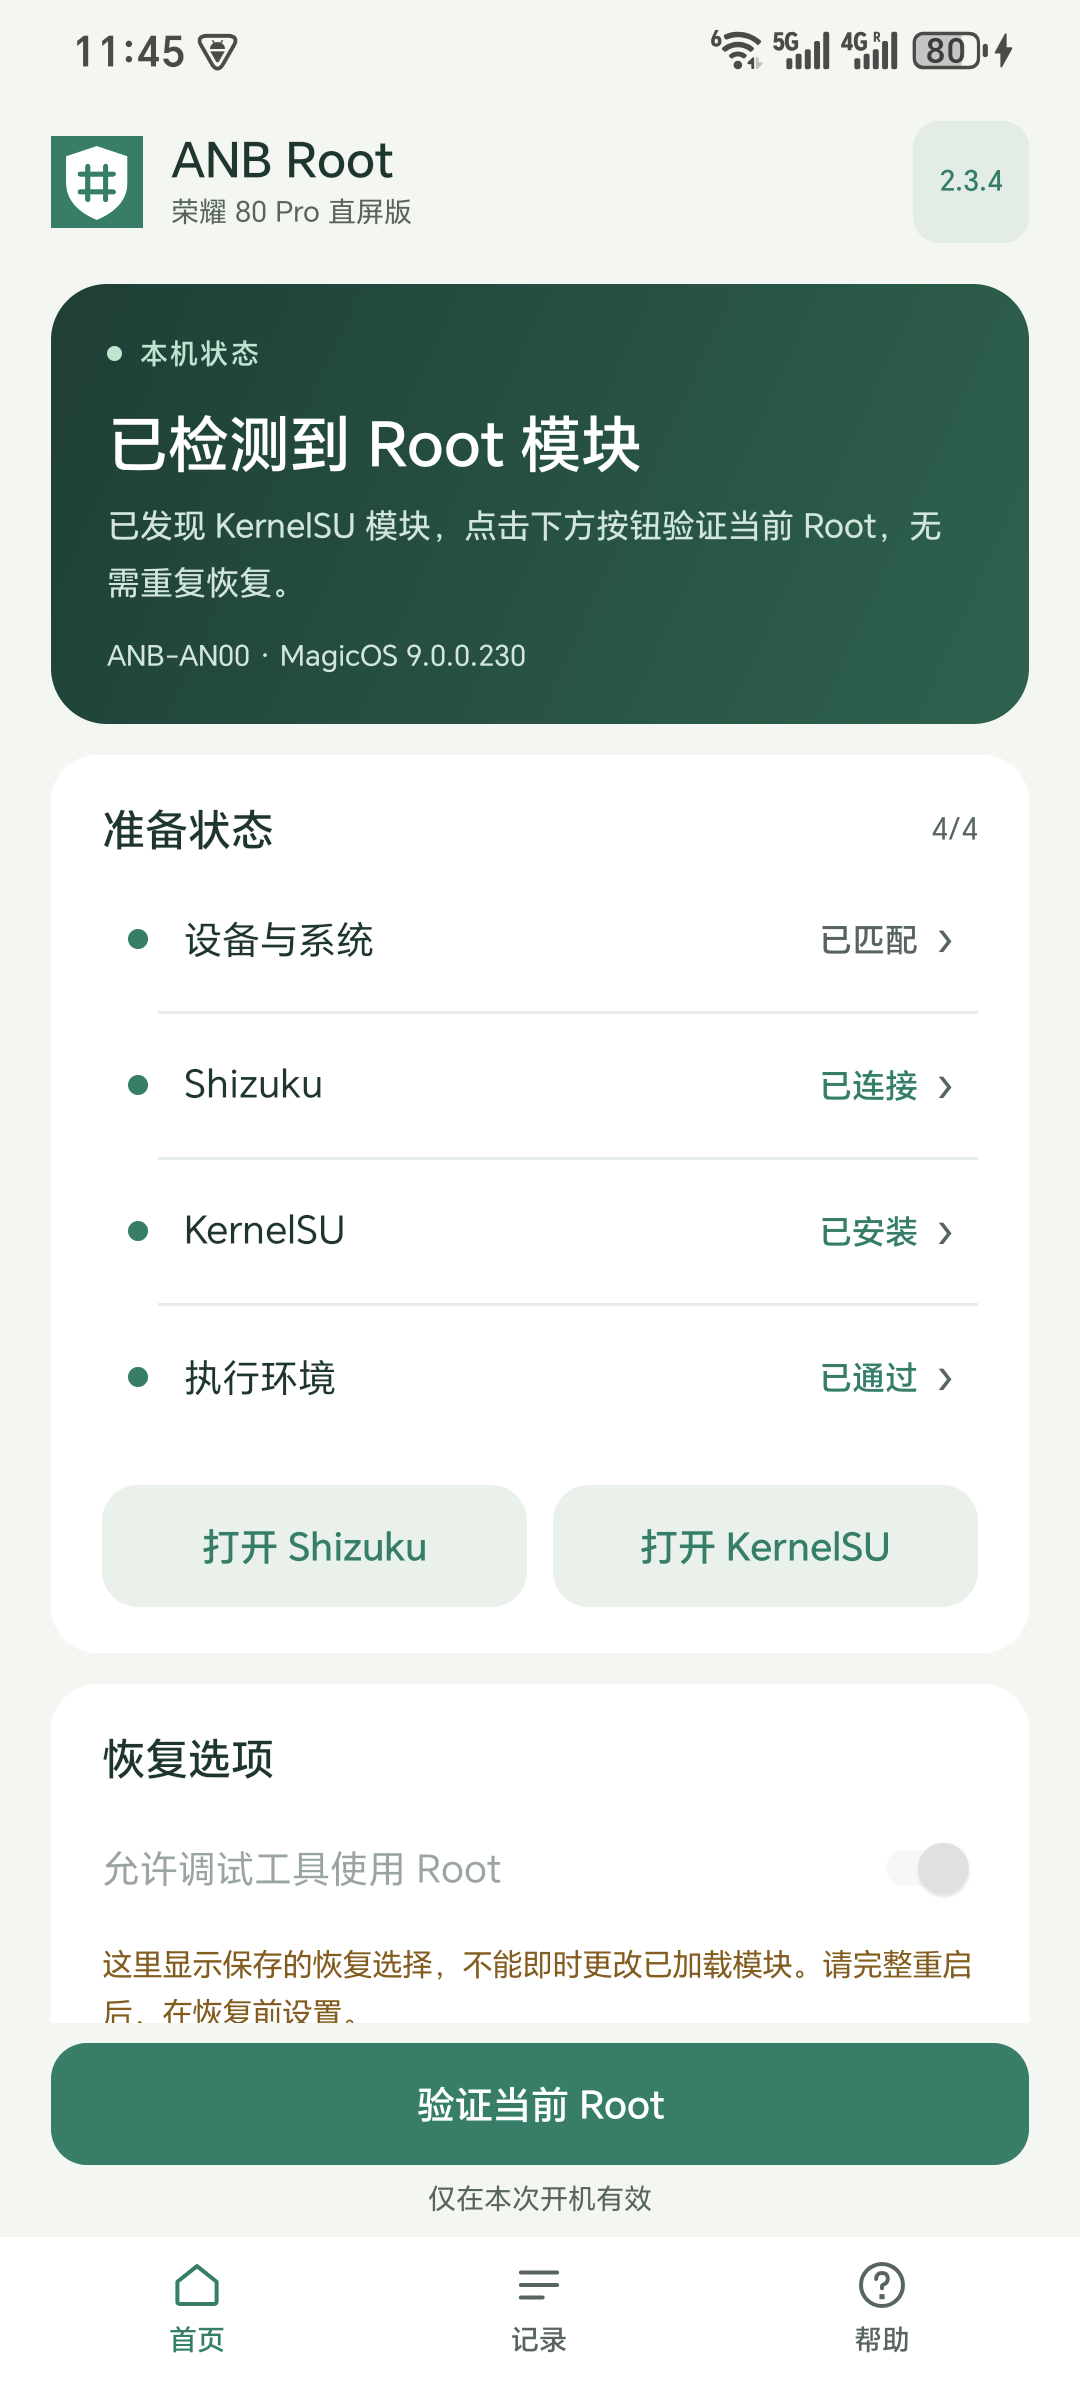
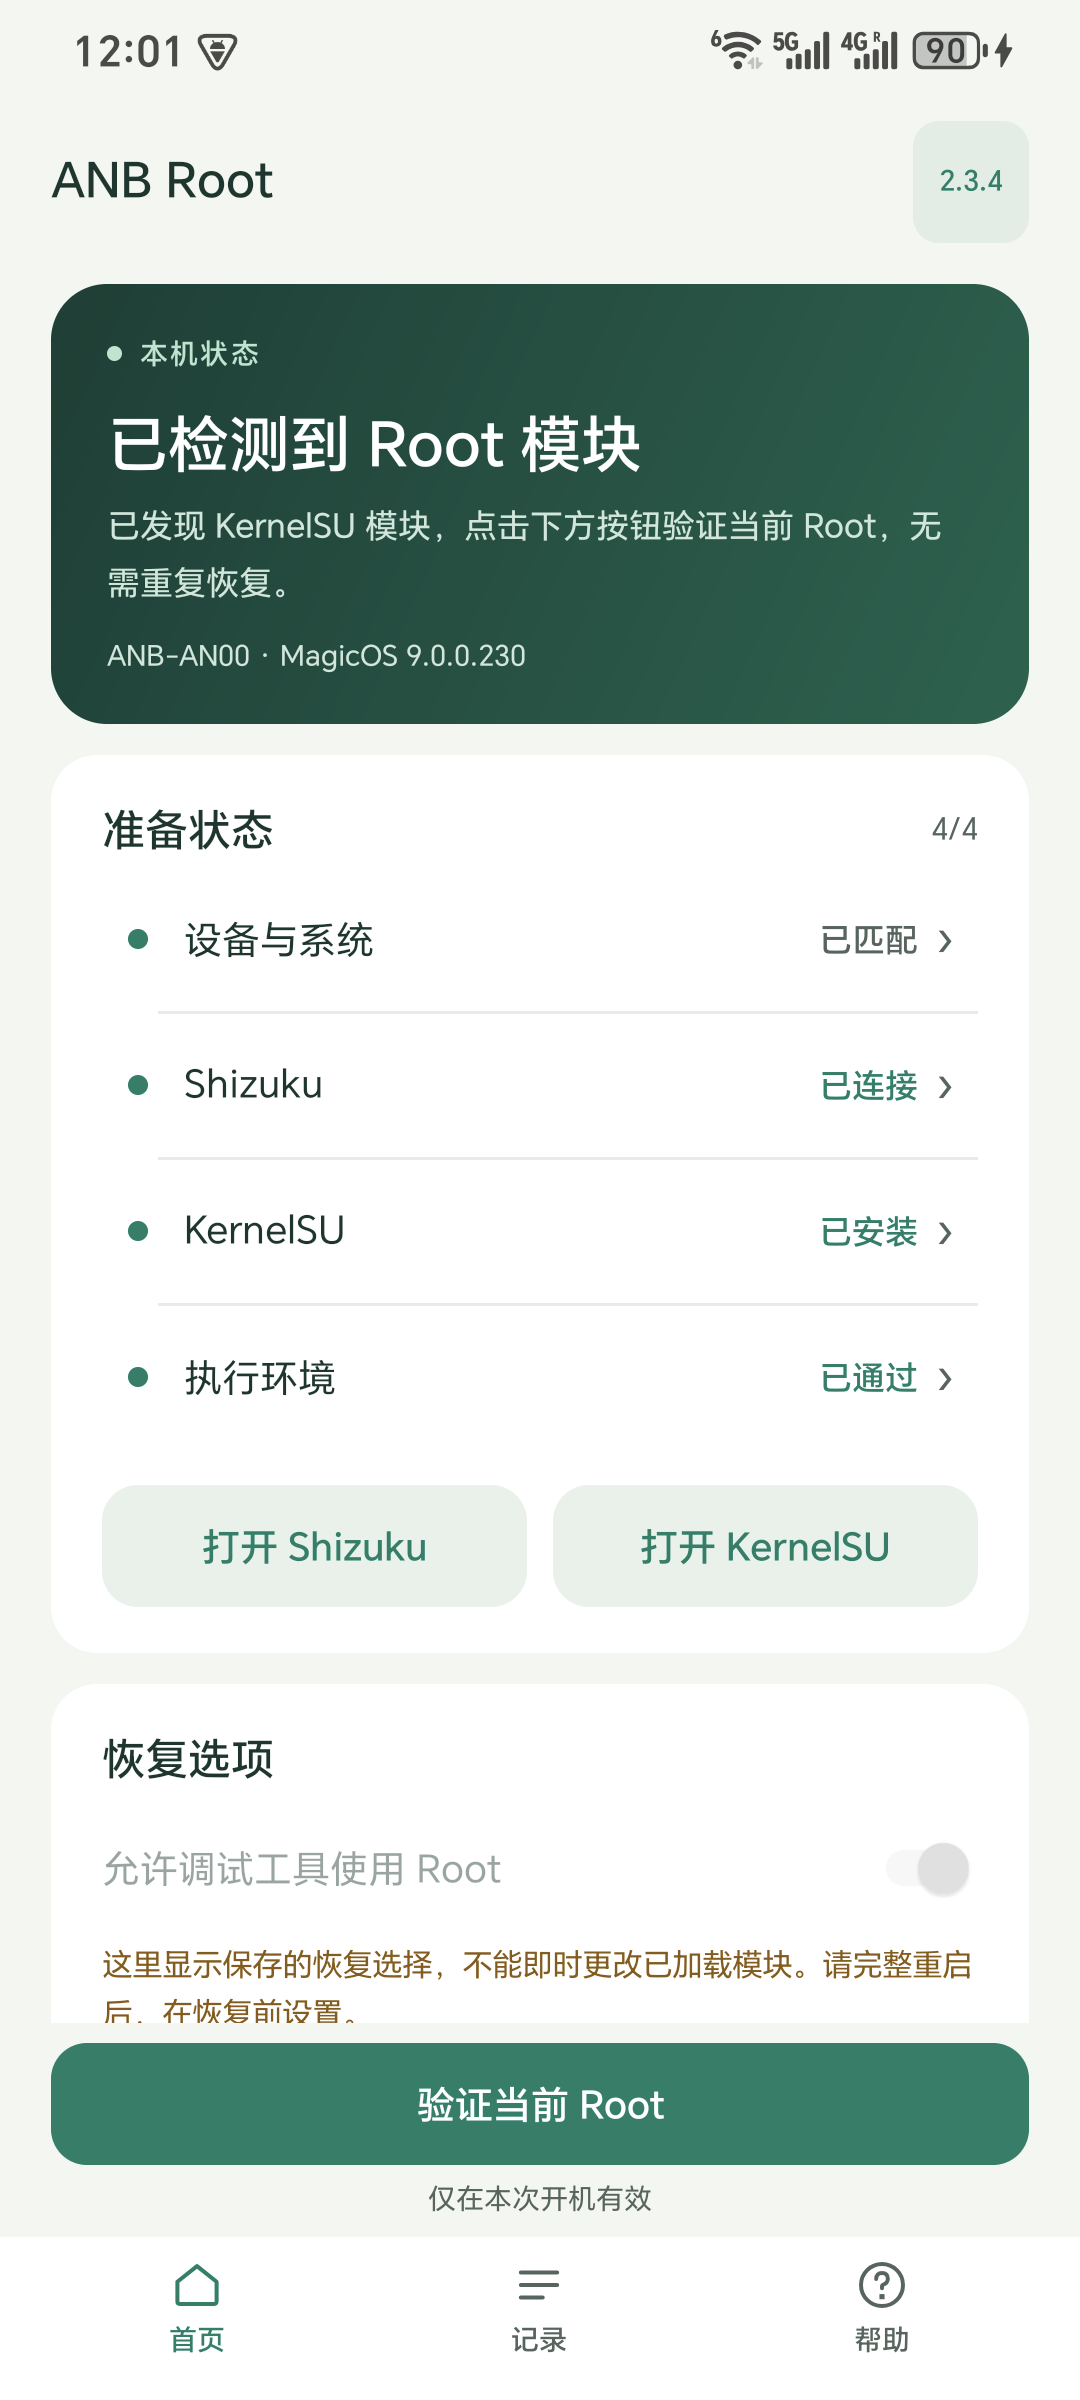
Release 2.3.4 with text-only app header and finalized audit assets

Changed region(s): [[0.0306, 0.0, 0.3667, 0.0938]]

diff --git a/app/java/com/anb/root/MainActivity.java b/app/java/com/anb/root/MainActivity.java
@@ -402,20 +402,7 @@ public final class MainActivity extends Activity {
         LinearLayout header=new LinearLayout(this);
         header.setPadding(dp(20),dp(12),dp(20),dp(10));header.setGravity(Gravity.CENTER_VERTICAL);
 
-        ImageView icon=new ImageView(this);
-        int iconId=getResources().getIdentifier("ic_launcher","mipmap",getPackageName());
-        if(iconId==0)iconId=getResources().getIdentifier("ic_launcher","drawable",getPackageName());
-        icon.setImageResource(iconId);
-        icon.setImportantForAccessibility(View.IMPORTANT_FOR_ACCESSIBILITY_NO);
-        icon.setContentDescription(null);
-        header.addView(icon,new LinearLayout.LayoutParams(dp(36),dp(36)));
-
-        LinearLayout brand=column();
-        LinearLayout.LayoutParams blp=new LinearLayout.LayoutParams(0,-2,1);blp.leftMargin=dp(11);
-        brand.addView(text("ANB Root",19,cText,true));
-        LinearLayout.LayoutParams blp2=new LinearLayout.LayoutParams(-2,-2);blp2.topMargin=dp(1);
-        brand.addView(text("荣耀 80 Pro 直屏版",11,cMuted,false),blp2);
-        header.addView(brand,blp);
+        header.addView(text("ANB Root",19,cText,true),new LinearLayout.LayoutParams(0,-2,1));
 
         versionChip=text(versionName(),11,cBrand,true);
         versionChip.setPadding(dp(10),dp(6),dp(10),dp(6));

diff --git a/README.en.md b/README.en.md
@@ -1,6 +1,6 @@
 # ANB Root — HONOR 80 Pro Flat / ANB-AN00 Temporary Root
 
-**2.3.4 UI candidate:** bounded press feedback for all four preparation rows, accurate task/ticker states, single-owner dialogs, export guards, large-font and landscape layouts. Physical ANB-AN00 UI tests passed 1,277 Activity assertions across five display configurations. Recovery flow and payloads are unchanged. This branch prepares 2.3.4; the public stable release remains 2.3.3. See [UI audit and limits](docs/AUDIT_2.3.4.md).
+**2.3.4 UI release:** bounded press feedback for all four preparation rows, accurate task/ticker states, single-owner dialogs, export guards, large-font and landscape layouts. Physical ANB-AN00 UI tests passed 1,277 Activity assertions across five display configurations. Recovery flow and payloads are unchanged. Version 2.3.4 is the public stable release. See [UI audit and limits](docs/AUDIT_2.3.4.md).
 
 **2.3.3 audit fixes:** exact model/SDK/firmware/kernel gating, actionable failures, SELinux guidance, shared task ownership, duplicate foreground-service protection, process and UI lifecycle cleanup, asynchronous diagnostic export. Verification/progress checks cannot start a new recovery chain. The eight payload files and AIDL are unchanged; application control code has changed. See the [closure and test limits](docs/AUDIT_2.3.3.md).
 

diff --git a/docs/AUDIT_2.3.4.md b/docs/AUDIT_2.3.4.md
@@ -1,6 +1,6 @@
 # 2.3.4 UI 审计与发布准备
 
-日期：2026-11-02。基线：2.3.3（`bf65b95`）。本版为发布候选，尚未替代公开的 2.3.3 正式版。
+日期：2026-11-02。基线：2.3.3（`bf65b95`）。本版完成 UI 审计后作为 2.3.4 正式版发布。
 
 用户已在本会话报告 2.3.3 本机验证完成；未提供具体步骤、选项组合或新日志，因此这条确认单独记录，不据此推定所有故障场景和所有选项均已实测。
 
@@ -22,6 +22,8 @@
 | U08 | 诊断保存入口在系统选择器阶段缺少重复保护 | 选择器与写入分别占用导出状态；取消时释放选择器状态。实测打开、取消和再次打开；未保存到云端或上传日志 |
 | U09 | 已有模块的首页说明仍提示“恢复”，与“验证当前 Root”按钮不一致；失败行称“已中断”也不能证明后台停止 | 已有模块说明改为验证；失败阶段显示“未完成”，按错误分类指导处理 |
 | U10 | 版本入口触控高度不足 48dp | 扩大至至少 48dp，增加键盘焦点支持 |
+
+补充调整：按用户要求移除页面左上角图标与重复机型副标题，顶部只保留 ANB Root 文字标题及右侧版本入口。最终排版再次在本机核对；恢复流程无改动。
 
 ## 检查范围与证据
 

diff --git a/README.md b/README.md
@@ -19,9 +19,9 @@ ANB Root 是面向 **荣耀 80 Pro 直屏版 ANB-AN00** 的 Android 临时 Root 
 
 **仅适配下表中的已验证系统。Root 在完整重启后失效，需要重新启动 Shizuku 并恢复；本项目不解锁 Bootloader，也不提供永久 Root。**
 
-## 2.3.4 UI 审计候选版
+## 2.3.4 UI 审计正式版
 
-完善首页四个准备项的动态按压反馈、按钮禁用、进度刷新、弹窗遮罩、大字体与横屏排版。ANB-AN00 五种显示配置完成 1,277 项真实 Activity 断言；恢复流程与原始载荷不变。详见 [UI 审计与边界](docs/AUDIT_2.3.4.md)。本分支正在准备 2.3.4，公开正式版仍为 2.3.3。
+完善首页四个准备项的动态按压反馈、按钮禁用、进度刷新、弹窗遮罩、大字体与横屏排版。ANB-AN00 五种显示配置完成 1,277 项真实 Activity 断言；恢复流程与原始载荷不变。详见 [UI 审计与边界](docs/AUDIT_2.3.4.md)。2.3.4 已作为正式版发布。
 
 ## 2.3.3 审计修复版
 

diff --git a/CHANGELOG.md b/CHANGELOG.md
@@ -1,6 +1,8 @@
 # Changelog
 
-## 2.3.4 — 发布候选 · 2026-11-02
+## 2.3.4 — 正式版 · 2026-11-02
+
+- 顶部改为 ANB Root 文字标题，取消页面左上角图标与重复机型副标题。
 
 - 修正首页四个准备项的按压遮罩边界与内边距，检查按住、松开、返回和滑动取消。
 - 修复任务完成后的 ticker 遗留，区分环境检查、管理器刷新与恢复的标题、按钮和进度。
